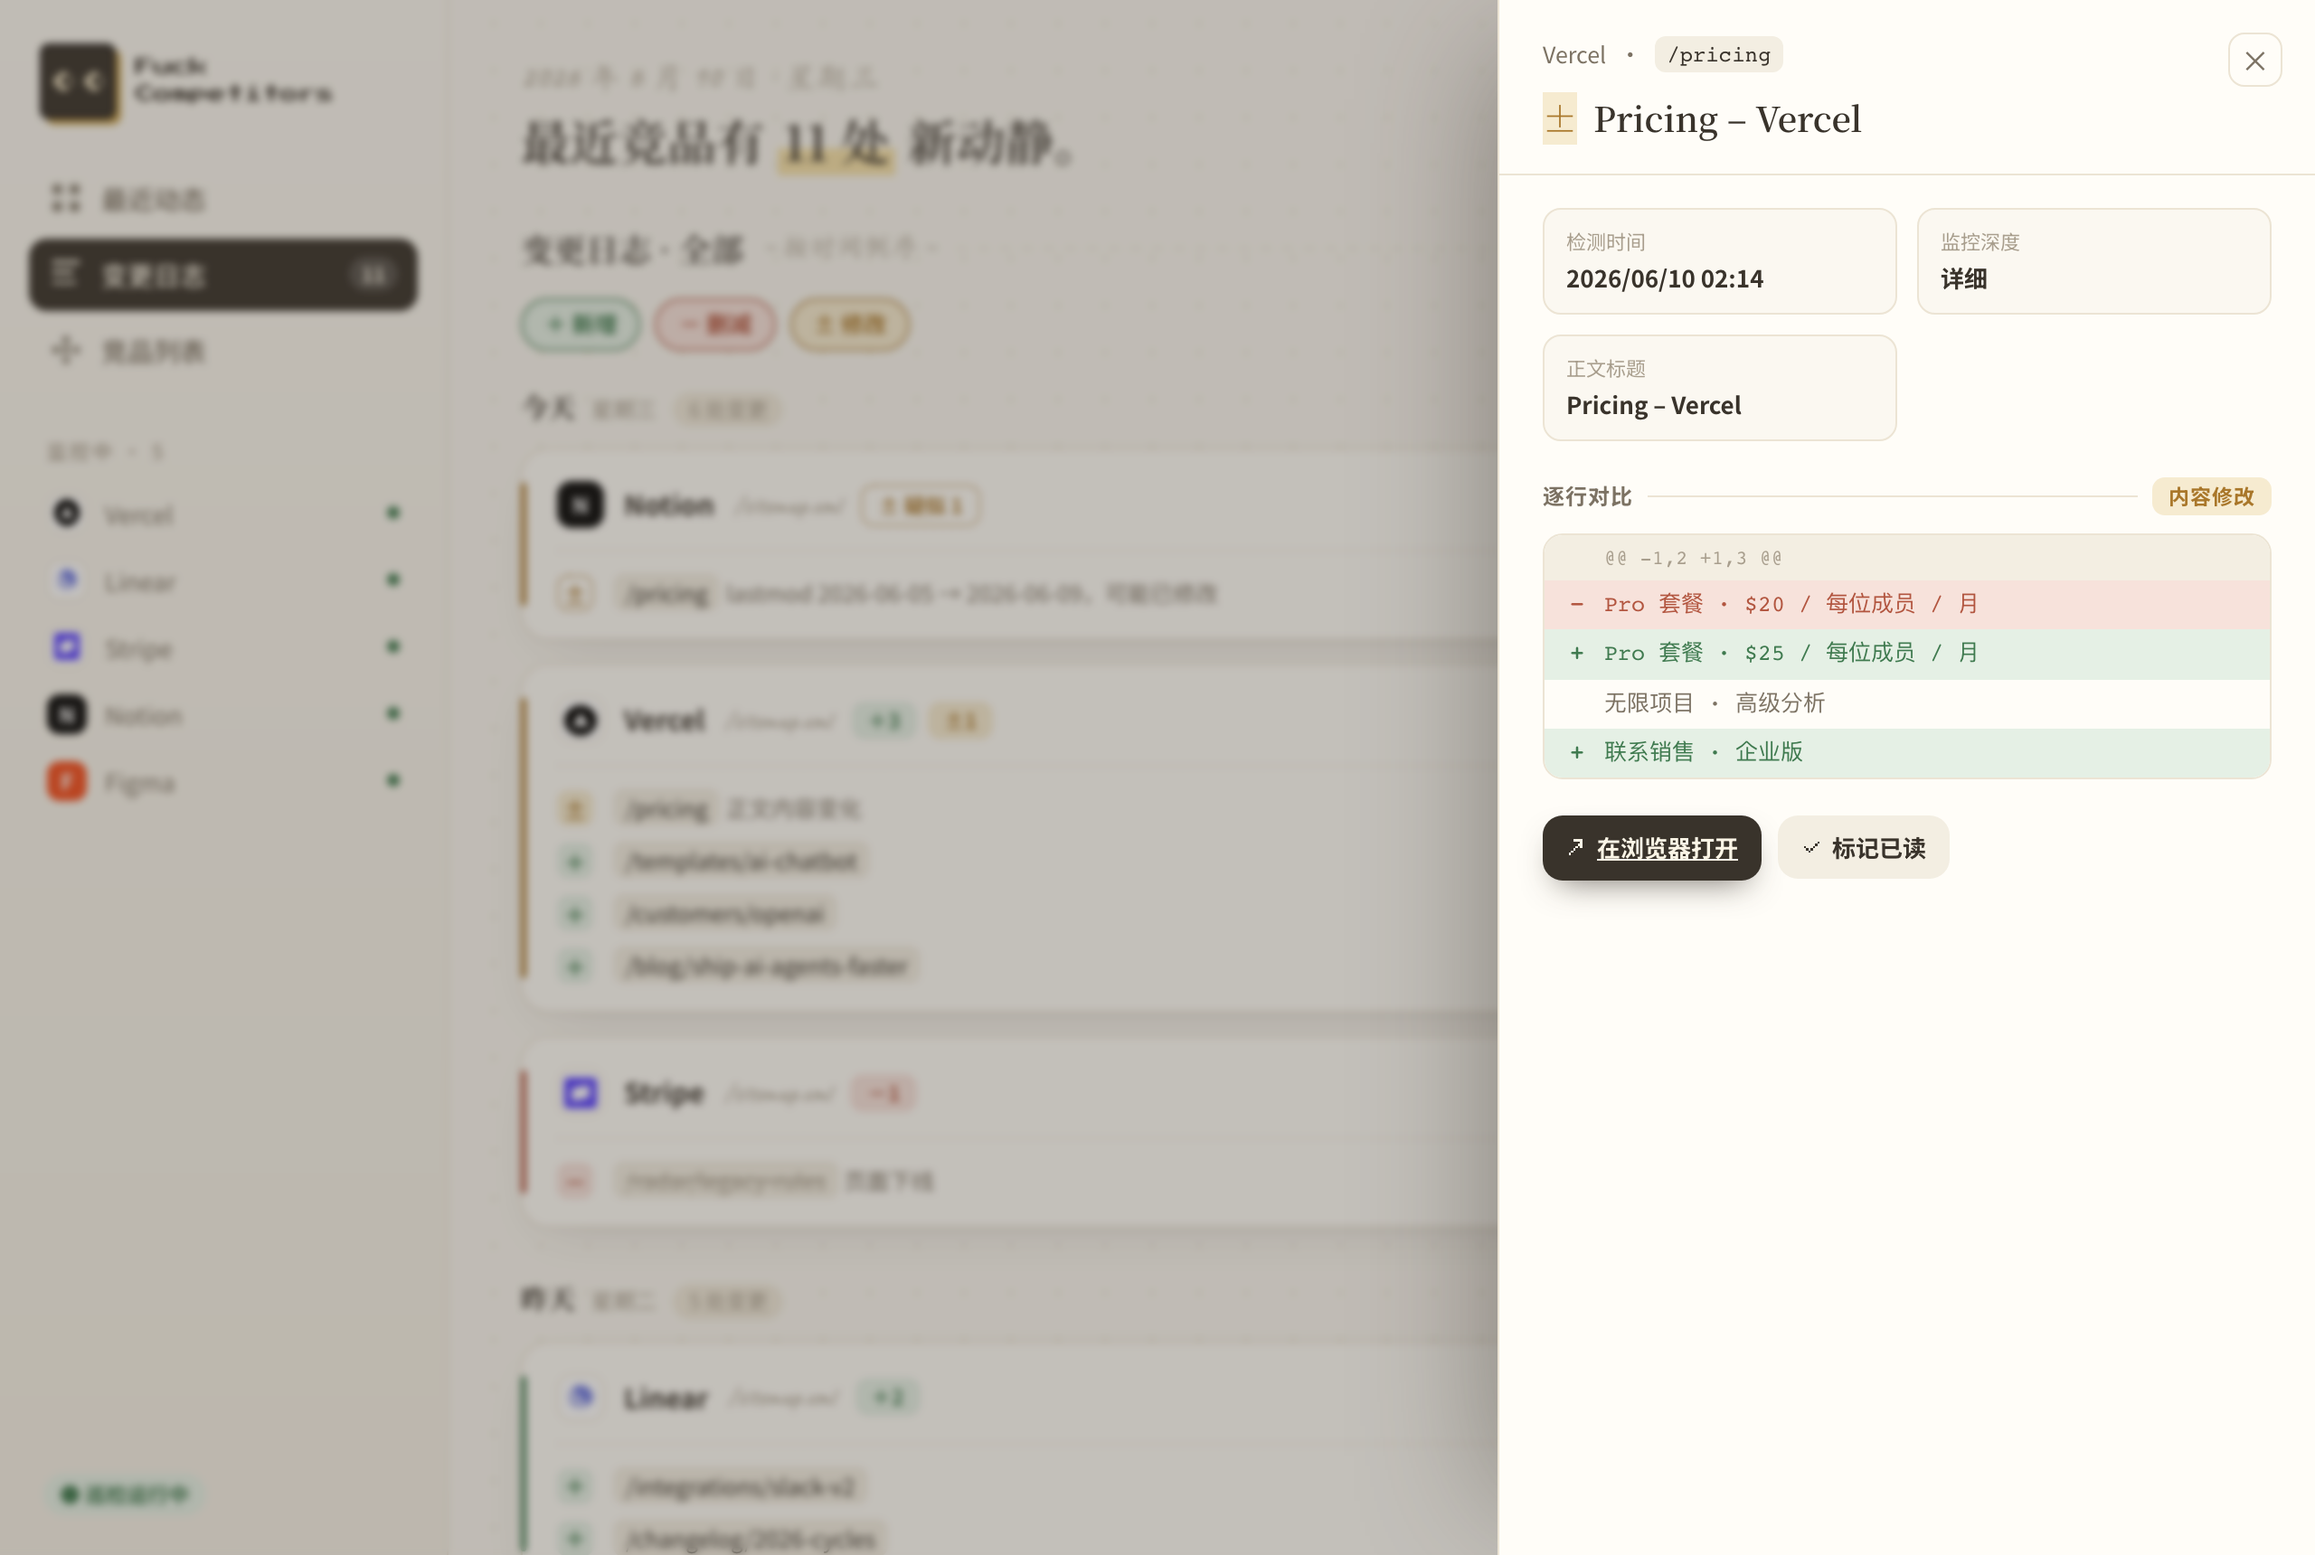
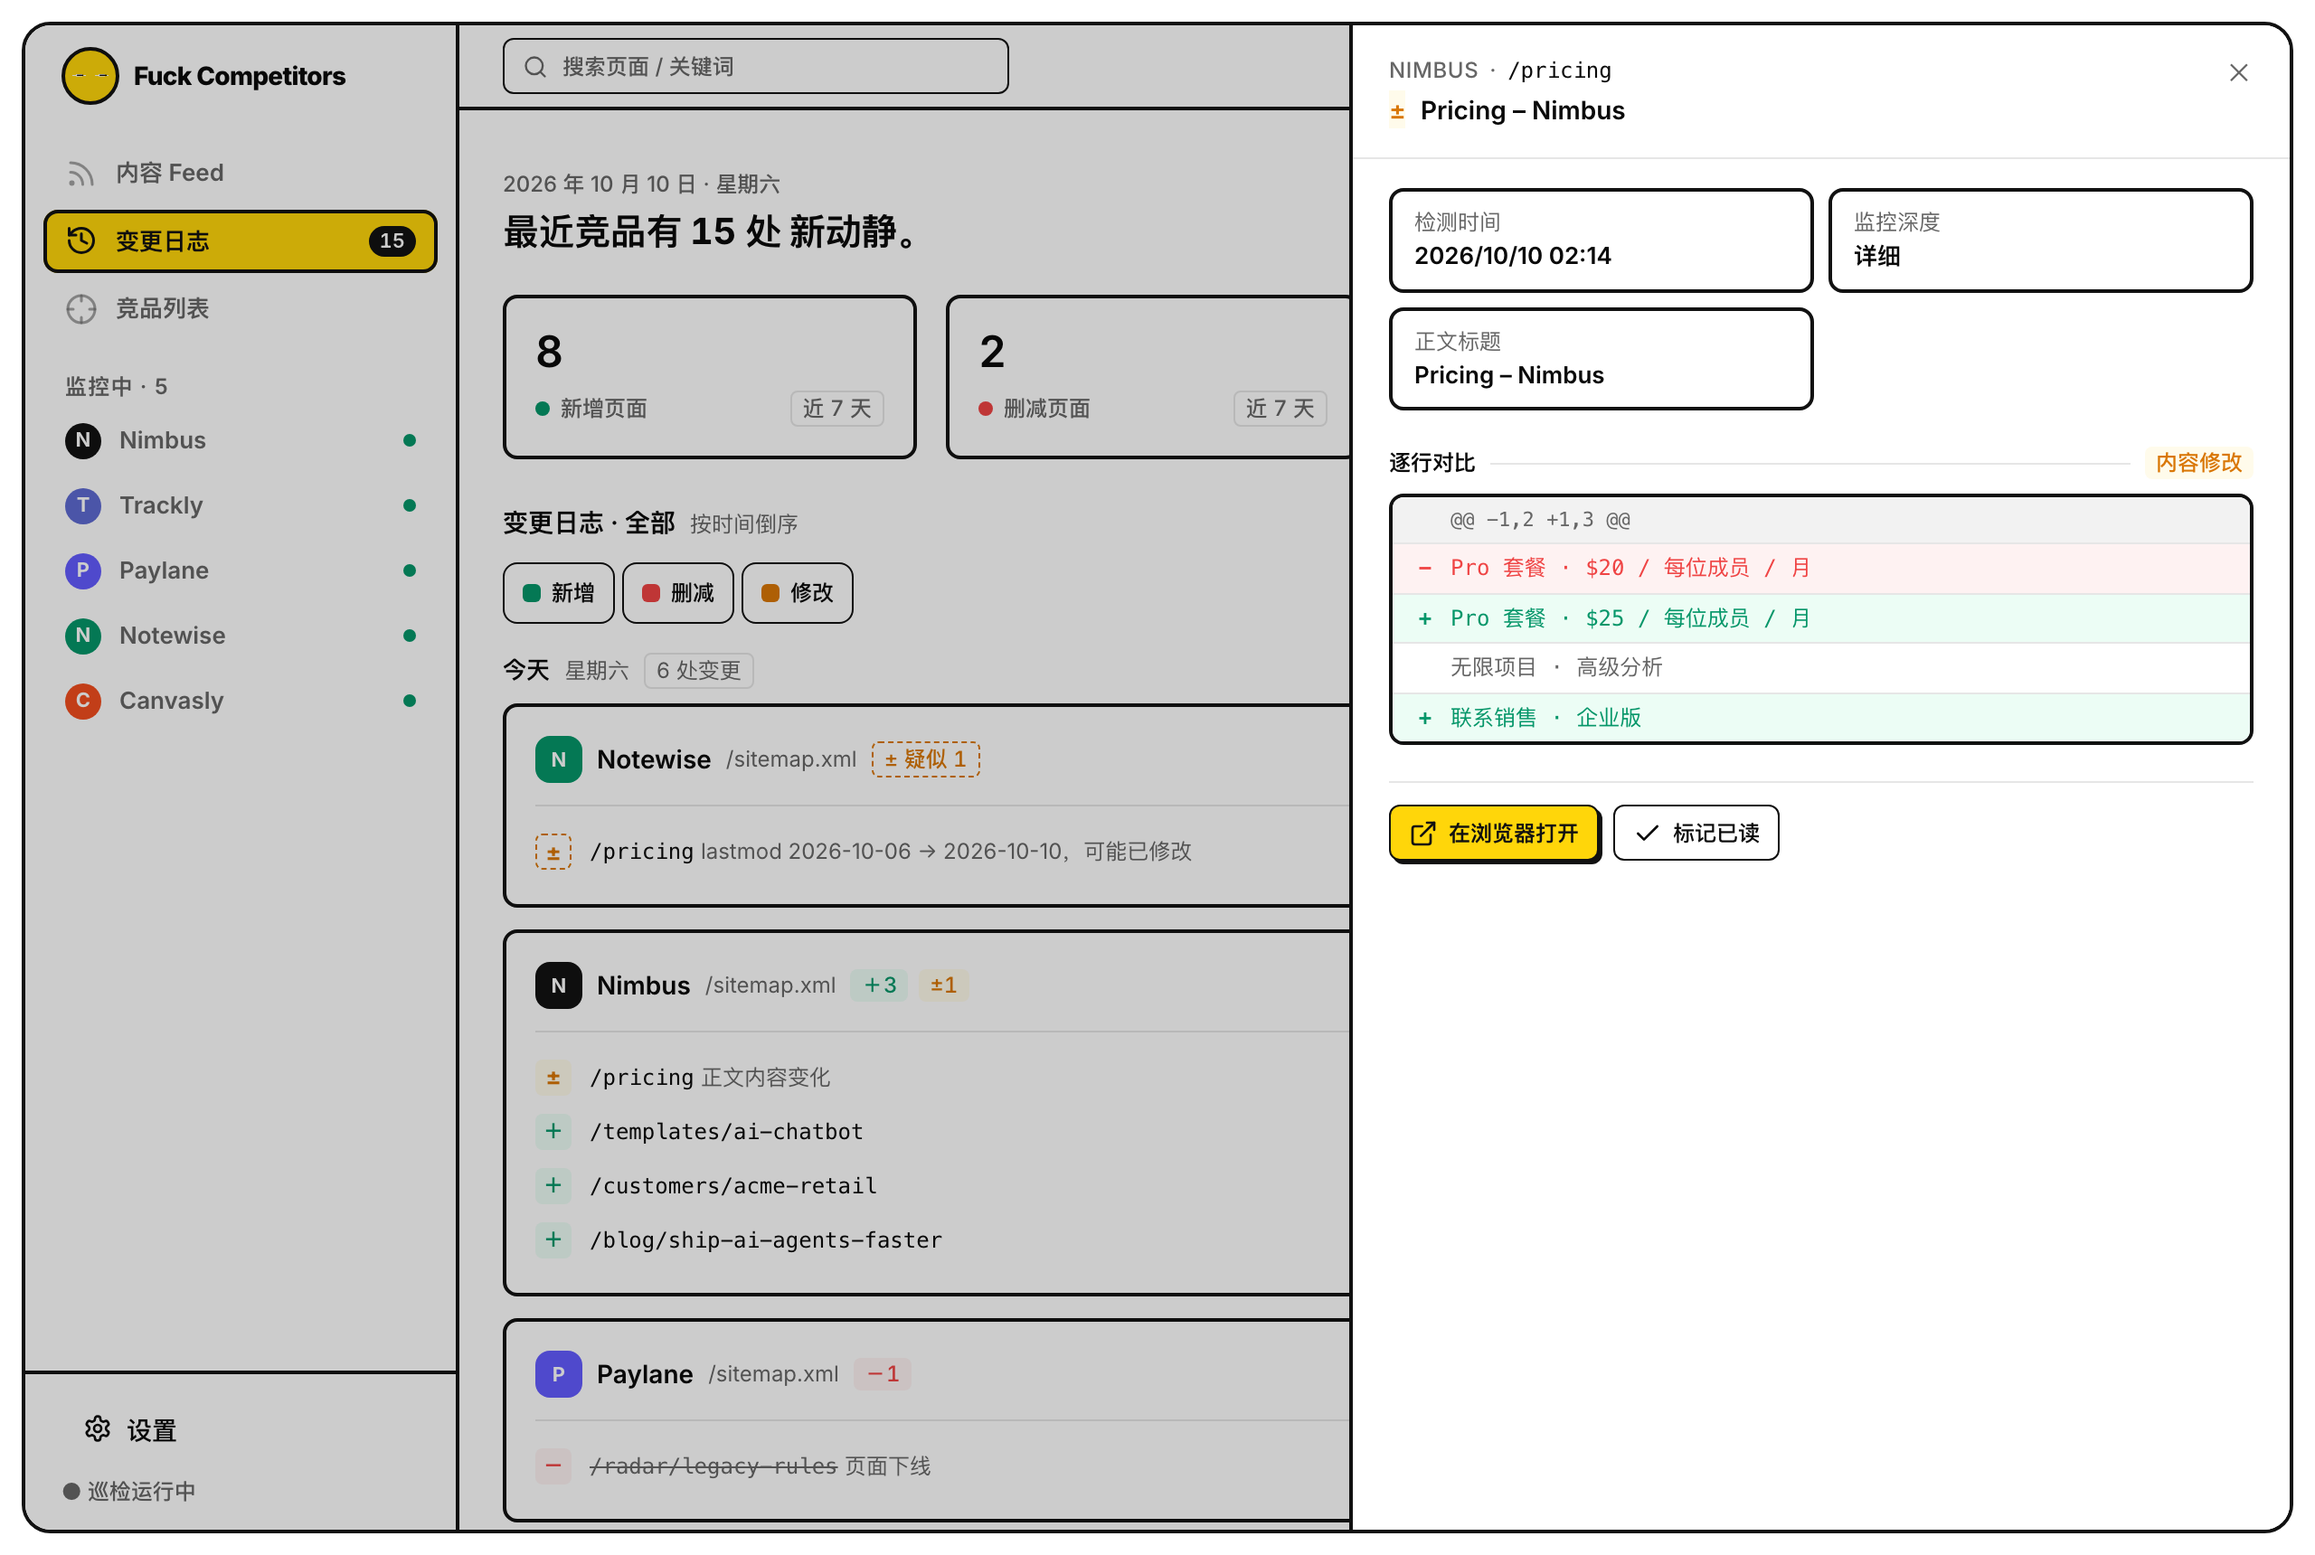
docs: retake screenshots for the feed-first layout

diff --git a/docs/screenshots/README.md b/docs/screenshots/README.md
@@ -4,8 +4,8 @@
 
 | 文件名 | 内容 |
 | --- | --- |
-| `overview.png` | 「最近动态」概览（统计卡 + 最近变更流） |
-| `changelog.png` | 「变更日志」（按日期分组 + 类型筛选） |
+| `feed.png` | 「内容 Feed」首页（竞品新文章收件箱） |
+| `changelog.png` | 「变更日志」（统计卡 + 按日期分组 + 类型筛选） |
 | `diff-drawer.png` | 点开某条变更的内容 diff 抽屉（逐行对比） |
 | `sites.png` | 「竞品列表」（卡片 + 详细监控开关 + 设置齿轮） |
 

diff --git a/README.md b/README.md
@@ -18,9 +18,9 @@
 
 ## 界面截图
 
-| 最近动态 | 变更日志 |
+| 内容 Feed | 变更日志 |
 | --- | --- |
-| ![最近动态](docs/screenshots/overview.png) | ![变更日志](docs/screenshots/changelog.png) |
+| ![内容 Feed](docs/screenshots/feed.png) | ![变更日志](docs/screenshots/changelog.png) |
 | **内容 diff** | **竞品列表** |
 | ![内容 diff](docs/screenshots/diff-drawer.png) | ![竞品列表](docs/screenshots/sites.png) |
 
